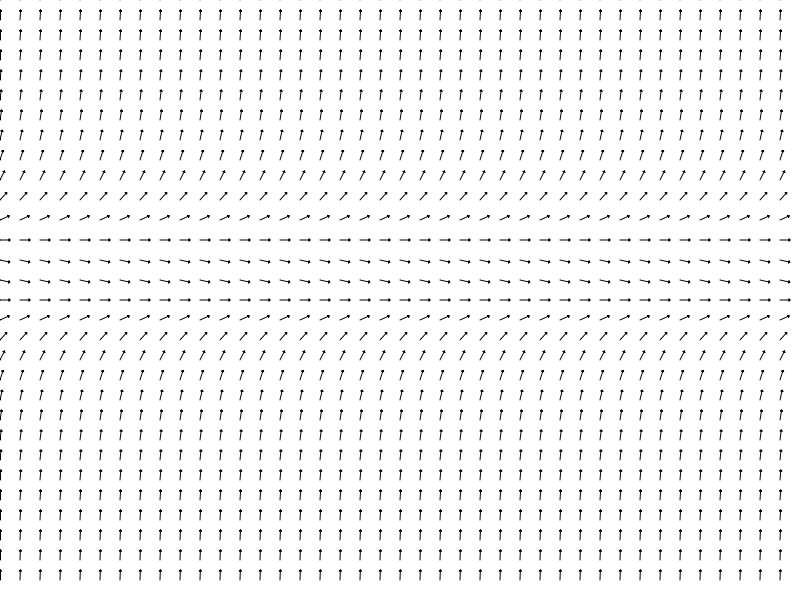
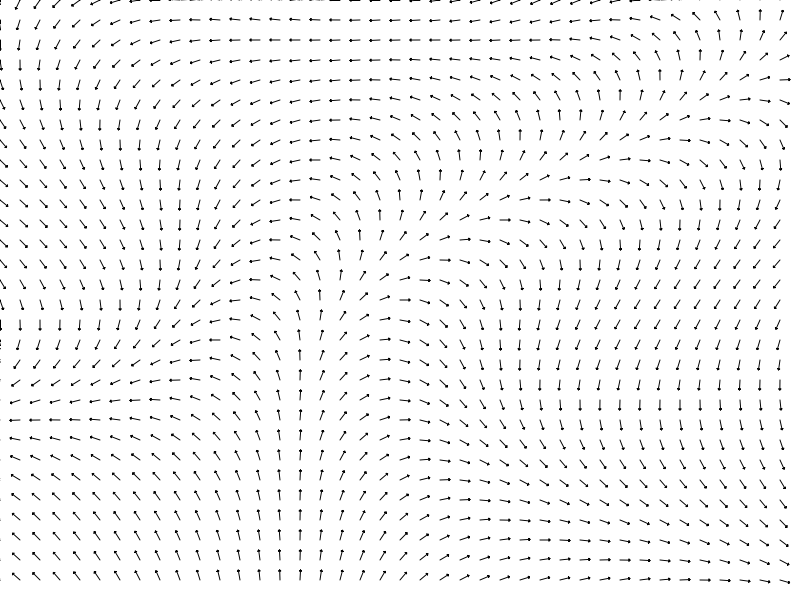
Add noise generator

diff --git a/main.go b/main.go
@@ -1,16 +1,24 @@
 package main
 
 import (
+	"math"
+
+	"github.com/aquilax/go-perlin"
 	"github.com/emilwidlund/esmerelda/core"
 	"github.com/emilwidlund/esmerelda/vectors"
 )
 
 func main() {
-	formula := func(vector *vectors.Vector2) *vectors.Vector2 {
-		x := 1.
-		y := vector.Y*vector.Y - vector.Y
 
-		return vectors.NewVector2(x, y)
+	p := perlin.NewPerlin(2, 2, 3, 0)
+
+	formula := func(vector *vectors.Vector2) *vectors.Vector2 {
+		// x := 1.
+		// y := vector.Y*vector.Y - vector.Y
+
+		n := p.Noise2D(vector.X/20, vector.Y/20) * 10
+
+		return vectors.NewVector2(math.Cos(n), math.Sin(n))
 	}
 
 	field := core.NewVectorField(800, 600, formula)
